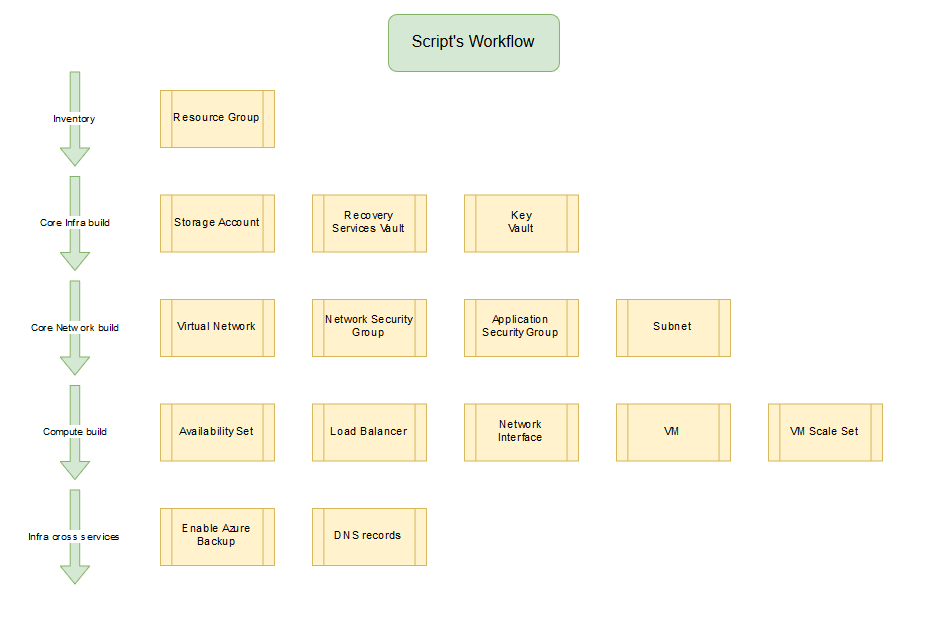
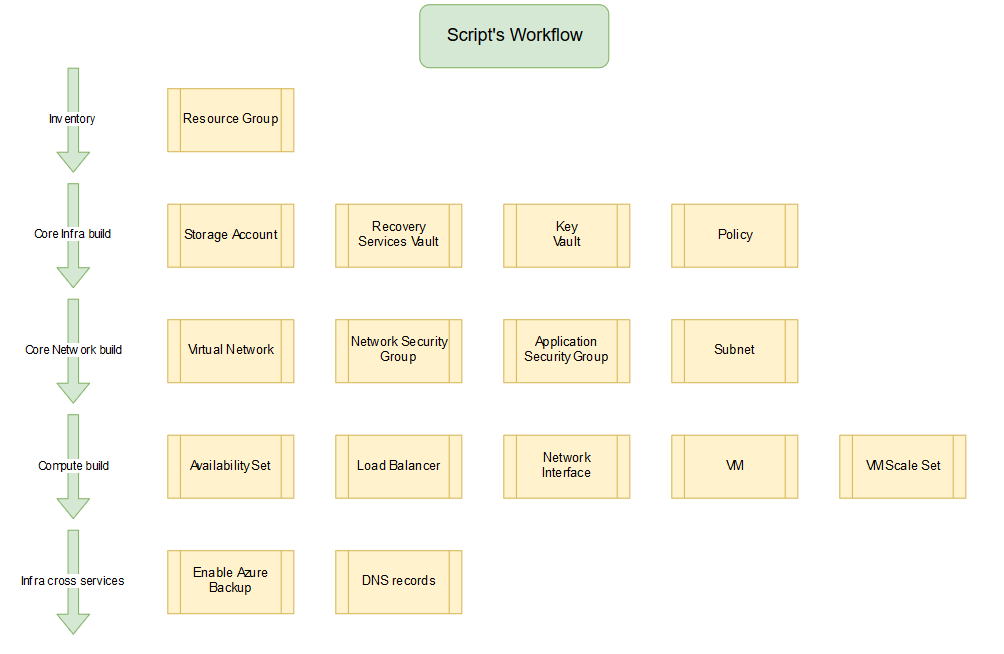
Add readme to create and assign Azure polices

diff --git a/module/Enable-AzureRmPolicyAssignment/README.md b/module/Enable-AzureRmPolicyAssignment/README.md
@@ -1,0 +1,35 @@
+Usage
+-----
+
+```hcl
+#Set the Provider
+provider "azurerm" {
+  subscription_id = "xxxxxxx-xxxx-xxxx-xxxx-xxxxxxxxxxxx"
+  client_id       = "xxxxxxx-xxxx-xxxx-xxxx-xxxxxxxxxxxx"
+  client_secret   = "xxxxxxx-xxxx-xxxx-xxxx-xxxxxxxxxxxx"
+  tenant_id       = "xxxxxxx-xxxx-xxxx-xxxx-xxxxxxxxxxxx"
+}
+
+#Set variable
+variable "policy_definition_id" {
+  default = "/subscriptions/xxxxxxx-xxxx-xxxx-xxxx-xxxxxxxxxxxx/providers/Microsoft.Authorization/policyDefinitions/jdld-sand1-enforce-nsg-on-subnet-pol1"
+}
+
+variable "vnet_id" {
+  default = "/subscriptions/xxxxxxx-xxxx-xxxx-xxxx-xxxxxxxxxxxx/resourceGroups/apps-jdld-sand1-rg1/providers/Microsoft.Network/virtualNetworks/myVirutalNetwork"
+}
+
+variable "nsgs_id" {
+  default = "/subscriptions/xxxxxxx-xxxx-xxxx-xxxx-xxxxxxxxxxxx/resourceGroups/apps-jdld-sand1-rg1/providers/Microsoft.Network/networkSecurityGroups/jdld-sand1-nic-all-nsg1"
+}
+
+#Action
+module "Enable-AzureRmPolicyAssignment-Infra-nsg-on-subnet" {
+  source                     = "./module/Enable-AzureRmPolicyAssignment"
+  p_ass_name                 = "enforce-nsg-on-subnet-for-infra-vnet"
+  p_ass_scope                = "${var.vnet_id}"
+  p_ass_policy_definition_id = "${var.policy_definition_id}"
+  p_ass_key_parameter1       = "nsgId"
+  p_ass_value_parameter1     = "${var.nsgs_id}"
+}
+```

diff --git a/module/Create-AzureRmPolicyDefinition/README.md b/module/Create-AzureRmPolicyDefinition/README.md
@@ -1,0 +1,38 @@
+Usage
+-----
+```
+#Set the Provider
+provider "azurerm" {
+  subscription_id = "xxxxxxx-xxxx-xxxx-xxxx-xxxxxxxxxxxx"
+  client_id       = "xxxxxxx-xxxx-xxxx-xxxx-xxxxxxxxxxxx"
+  client_secret   = "xxxxxxx-xxxx-xxxx-xxxx-xxxxxxxxxxxx"
+  tenant_id       = "xxxxxxx-xxxx-xxxx-xxxx-xxxxxxxxxxxx"
+}
+
+#Set variable
+
+variable "policies" {
+  type = "list"
+
+  default = [
+    {
+      policy_suffix_name = "enforce-nsg-on-subnet" #Used to name the policy and to call json template files located into the module's folder
+      policy_type        = "Custom"
+      mode               = "All"
+    },
+    {
+      policy_suffix_name = "enforce-udr-on-subnet" #Used to name the policy and to call json template files located into the module's folder
+      policy_type        = "Custom"
+      mode               = "All"
+    },
+  ]
+}
+
+#Action
+module "Create-AzureRmPolicyDefinition" {
+  source     = "./module/Create-AzureRmPolicyDefinition"
+  policies   = ["${var.policies}"]
+  pol_prefix = "ApplicationToto-"
+  pol_suffix = "-pol1"
+}
+```
